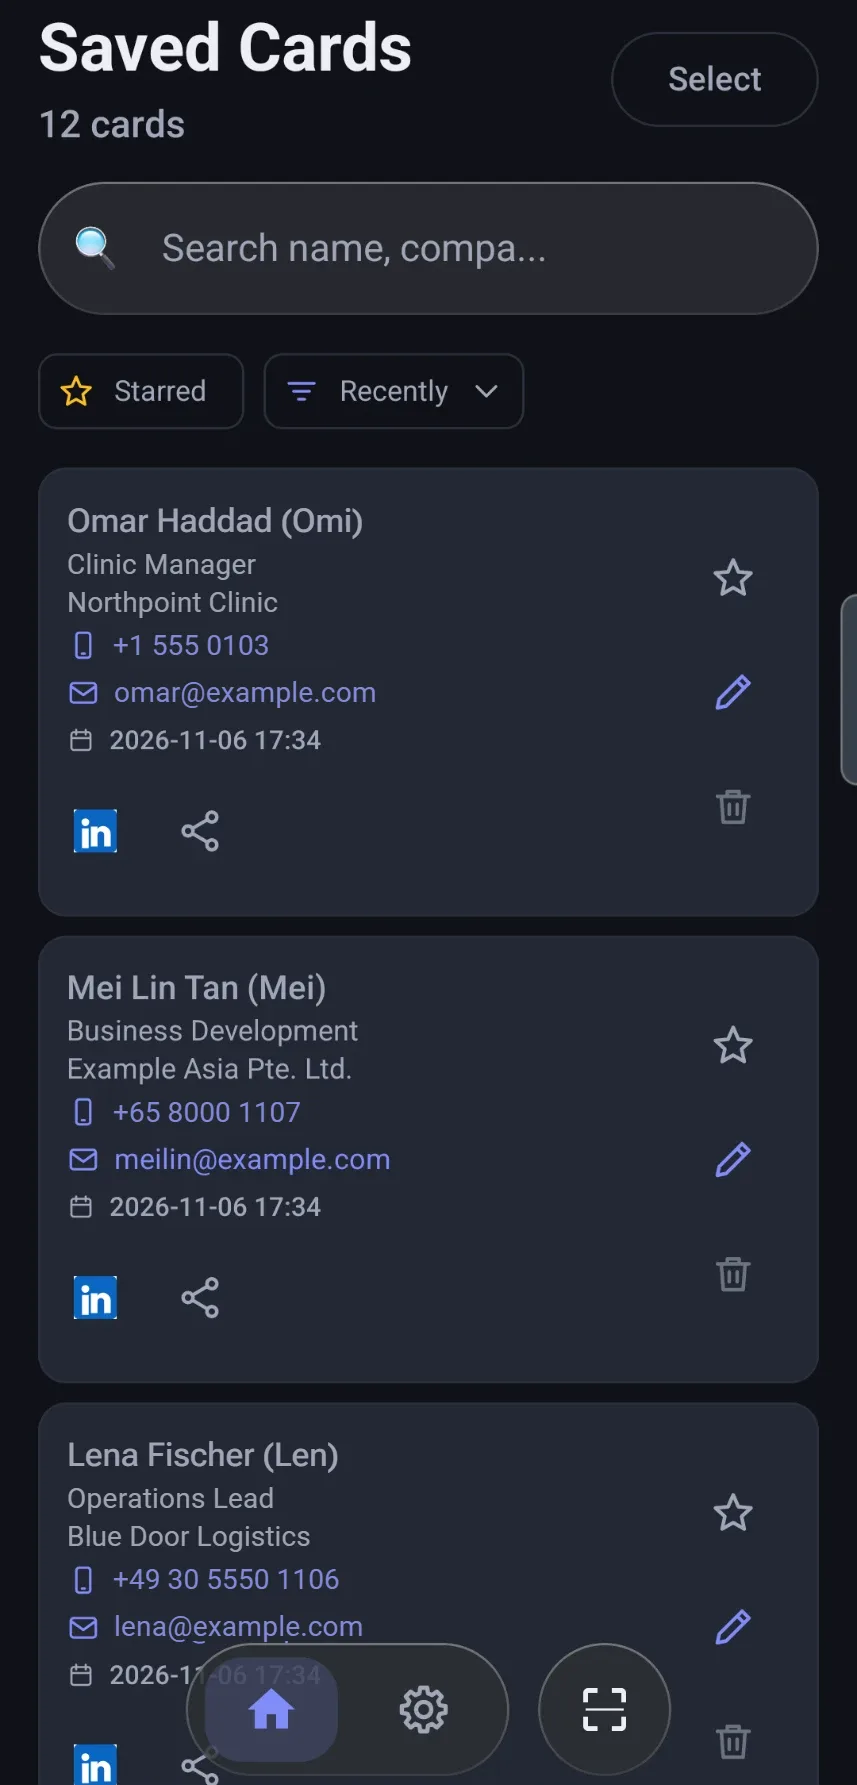
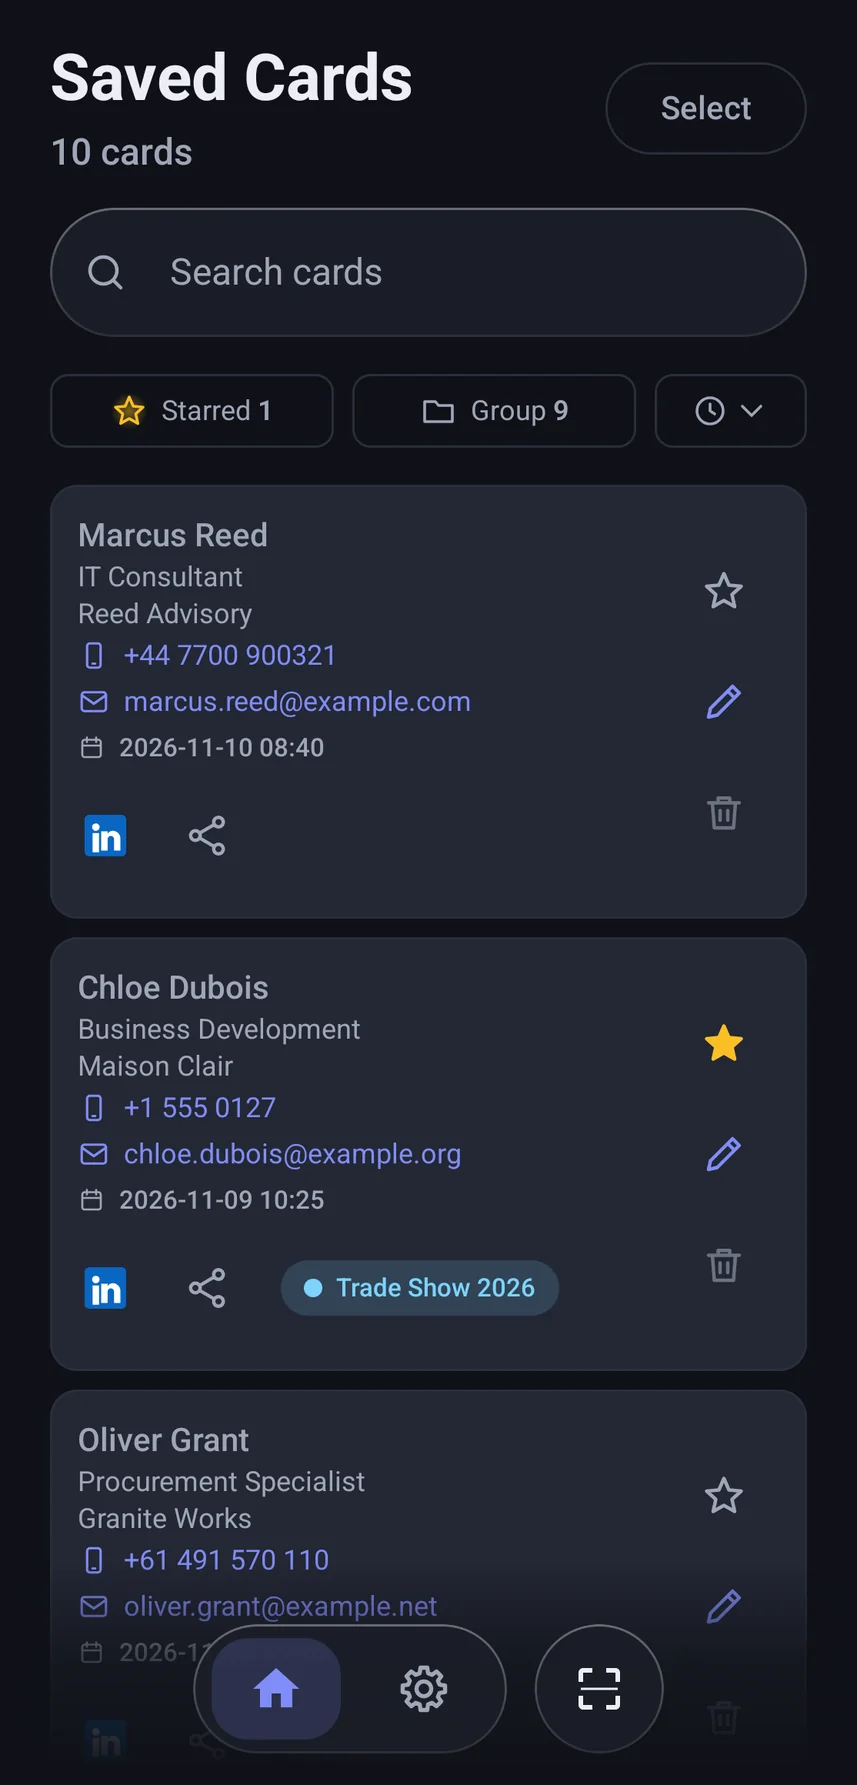
feat(website): show 1.3 screens with groups and polish Thai and English copy

diff --git a/th.js b/th.js
@@ -13,7 +13,7 @@ window.BIZCAPTO_TH = {
   'nav.faq': 'คำถามที่พบบ่อย',
   'lang.label': 'ภาษา',
 
-  'hero.eyebrow': 'แอปสแกนนามบัตรสำหรับ Android',
+  'hero.eyebrow': 'แอปจัดการนามบัตรแบบ<span class="hl">ออฟไลน์</span>',
   'hero.title': 'สแกนนามบัตร<br>ได้รายชื่อทันที<br><span>เก็บไว้ในมือถือคุณเท่านั้น</span>',
   'hero.lead': 'BizCapto เปลี่ยนนามบัตรกระดาษเป็นรายชื่อที่ค้นหา โทร และส่งอีเมลได้ทันที ใช้ได้แม้ไม่มีเน็ต ไม่ต้องสมัครบัญชี และไม่มีคลาวด์',
   'hero.secondary': 'ดูวิธีใช้',
@@ -34,18 +34,15 @@ window.BIZCAPTO_TH = {
   'demo.caption': 'ภาพจำลอง ใช้นามบัตรตัวอย่างที่สมมติขึ้น',
   'demo.pause': 'หยุด',
   'demo.play': 'เล่น',
-  'pill.offline': 'ไม่ต้องต่อเน็ต',
-  'pill.account': 'ไม่ต้องสมัครบัญชี',
-  'pill.excel': 'ส่งออก Excel',
 
   'screens.title': 'หน้าตาแอปจริง',
   'screens.lead': 'ภาพหน้าจอจริงจากแอป รายชื่อทั้งหมดเป็นข้อมูลสมมติ',
-  'screens.1.alt': 'หน้ารายการนามบัตร มีช่องค้นหา ตัวกรองติดดาว และการเรียงลำดับ',
+  'screens.1.alt': 'หน้ารายการนามบัตร มีช่องค้นหา ตัวกรองติดดาวและกลุ่ม และการเรียงลำดับ',
   'screens.1.title': 'นามบัตรทั้งหมดอยู่ในที่เดียว',
-  'screens.1.text': 'ค้นหา ติดดาว เรียงลำดับ แล้วโทรหรือส่งอีเมลได้ในแตะเดียว',
-  'screens.2.alt': 'หน้าตรวจข้อมูล มีช่องข้อมูลติดต่อ และข้อความที่สแกนได้อยู่ด้านล่าง',
+  'screens.1.text': 'ค้นหา ติดดาว จัดกลุ่ม เรียงลำดับ แล้วโทรหรือส่งอีเมลได้ทันที',
+  'screens.2.alt': 'หน้าตรวจข้อมูล (Check details) มีช่องข้อมูลติดต่อ และกลุ่มที่แนะนำให้เลือก',
   'screens.2.title': 'ตรวจก่อนบันทึก',
-  'screens.2.text': 'แก้ได้ทุกช่อง หรือแตะบรรทัดที่สแกนได้เพื่อใส่ลงช่อง',
+  'screens.2.text': 'แก้ได้ทุกช่อง แตะบรรทัดที่สแกนได้เพื่อใส่ลงช่อง และเลือกกลุ่มได้เลย',
   'screens.3.alt': 'หน้าตั้งค่า มีปุ่มส่งออกและนำเข้า และข้อความว่านามบัตรเก็บไว้ในมือถือเครื่องนี้เท่านั้น',
   'screens.3.title': 'อยู่ในมือถือคุณเท่านั้น',
   'screens.3.text': 'ส่งออกเป็น Excel เมื่ออยากเก็บสำรอง ไม่ต้องมีบัญชี ไม่มีคลาวด์',
@@ -60,7 +57,7 @@ window.BIZCAPTO_TH = {
 
   'feat.title': 'นามบัตรทั้งกองที่หยิบมาใช้ได้จริง',
   'feat.search.title': 'หาใครก็เจอในไม่กี่วินาที',
-  'feat.search.text': 'ค้นจากชื่อ ชื่อเล่น ตำแหน่ง บริษัท เบอร์โทร หรืออีเมล เรียงตามล่าสุด A-Z หรือวันที่เพิ่ม ลองพิมพ์ดูได้เลย',
+  'feat.search.text': 'ค้นจากชื่อ ชื่อเล่น ตำแหน่ง บริษัท เบอร์โทร หรืออีเมล เรียงได้ทั้งล่าสุด ตามตัวอักษร หรือเก่าไปใหม่ ลองพิมพ์ดูได้เลย',
   'feat.search.label': 'ค้นหานามบัตรตัวอย่าง',
   'feat.search.placeholder': 'ค้นหานามบัตร',
   'feat.search.none': 'ไม่พบนามบัตรตัวอย่างที่ตรงกัน',
@@ -69,17 +66,17 @@ window.BIZCAPTO_TH = {
   'feat.excel.alt': 'ตัวอย่างไฟล์ Excel ที่ส่งออก มีคอลัมน์ Name, Nickname, Job Title, Company, Phone และ Email',
   'feat.excel.all': 'ครบ 6 คอลัมน์ ทุกใบ',
   'feat.excel.hint': 'ปัดเพื่อดูทั้งแผ่น',
-  'feat.act.title': 'ติดต่อได้ในแตะเดียว',
+  'feat.act.title': 'โทรหรืออีเมลได้ทันที',
   'feat.act.text': 'โทร ส่งอีเมล หรือค้นหาชื่อใน LinkedIn ได้จากหน้านามบัตรเลย',
   'feat.share.title': 'แชร์เข้า LINE และแอปอื่น',
   'feat.share.text': 'ส่งนามบัตรเป็นข้อความผ่านเมนูแชร์ของมือถือ',
   'feat.dup.title': 'ไม่บันทึกซ้ำ',
   'feat.dup.text': 'แอปเตือนเมื่อเบอร์โทรหรืออีเมลนั้นมีอยู่แล้ว',
   'feat.star.title': 'ติดดาว จัดกลุ่ม และโหมดมืด',
-  'feat.star.text': 'ติดดาวคนสำคัญ และจัดกลุ่มนามบัตร เช่น ลูกค้า หรืองานแสดงสินค้า แล้วกรองดูได้ เลือกโหมดสว่าง มืด หรือตามระบบ',
+  'feat.star.text': 'ติดดาวคนสำคัญ แยกนามบัตรเป็นกลุ่ม เช่น ลูกค้า หรือซัพพลายเออร์ แล้วเลือกดูทีละกลุ่มได้ รองรับโหมดสว่าง มืด และตามระบบ',
 
-  'priv.title': 'นามบัตรคือข้อมูลส่วนตัวของคนอื่น เราจึงดูแลแบบนั้น',
-  'priv.lead': 'แอป Android ไม่มีสิทธิ์เข้าอินเทอร์เน็ต รายชื่อของคุณจึงไม่มีทางออกจากมือถือ เว้นแต่คุณจะส่งออกหรือแชร์เอง',
+  'priv.title': 'นามบัตรคือข้อมูลส่วนตัวของคนอื่น เราจึงดูแลอย่างระมัดระวัง',
+  'priv.lead': 'แอปไม่มีสิทธิ์ใช้อินเทอร์เน็ต ข้อมูลนามบัตรจึงอยู่ในมือถือคุณเท่านั้น จนกว่าคุณจะส่งออกหรือแชร์เอง',
   'priv.1': 'ไม่ต้องสมัครบัญชีหรือล็อกอิน',
   'priv.2': 'ไม่มีการซิงก์ขึ้นคลาวด์ และไม่มี analytics',
   'priv.3': 'ขอสิทธิ์ใช้กล้องอย่างเดียว',
@@ -92,7 +89,7 @@ window.BIZCAPTO_TH = {
   'price.free.amount': 'เริ่มต้นฟรี',
   'price.free.text': 'สแกนนามบัตรใบแรก ๆ ได้ฟรี ใช้ได้ทุกฟีเจอร์',
   'price.paid.title': 'ปลดล็อกถาวร',
-  'price.paid.amount': 'บอกราคาวันเปิดตัว',
+  'price.paid.amount': 'ประกาศราคาเร็ว ๆ นี้',
   'price.paid.text': 'ซื้อครั้งเดียวในแอป บันทึกนามบัตรได้ไม่จำกัด ไม่ต้องต่ออายุ',
   'price.note': 'นามบัตรที่บันทึกแล้วยังดูและส่งออกได้เสมอ',
 

diff --git a/index.html b/index.html
@@ -96,7 +96,7 @@
       <div class="aurora" aria-hidden="true"><i></i><i></i><i></i></div>
       <div class="wrap hero-grid">
         <div class="hero-copy">
-          <p class="eyebrow" data-i18n="hero.eyebrow">Business card scanner for Android</p>
+          <p class="eyebrow" data-i18n="hero.eyebrow"><span class="hl">Offline</span> business card scanner</p>
           <h1 data-i18n="hero.title">Scan the card.<br>Keep the contact.<br><span>Stored on your phone.</span></h1>
           <p class="lead" data-i18n="hero.lead">BizCapto turns a paper business card into a contact you can search, call and email. It works offline, with no account and no cloud.</p>
           <div class="actions">
@@ -109,11 +109,6 @@
         </div>
 
         <figure class="demo">
-          <div class="pills" aria-hidden="true">
-            <span class="pill pill-a" data-depth="26" data-i18n="pill.offline">Works offline</span>
-            <span class="pill pill-b" data-depth="-20" data-i18n="pill.account">No account</span>
-            <span class="pill pill-c" data-depth="34" data-i18n="pill.excel">Excel export</span>
-          </div>
           <div class="bob">
           <div class="phone" id="phone" data-step="0" role="img" aria-label="Illustration: a phone scans a sample business card and fills in the contact fields" data-i18n-aria="demo.alt">
             <div class="screen" aria-hidden="true">
@@ -193,17 +188,17 @@
         <p class="lead" data-i18n="screens.lead">Real screens from the app. Every contact shown is a made-up sample.</p>
         <div class="shots">
           <figure class="shot">
-            <img src="img/screen-cards.webp" width="857" height="1785" loading="lazy" decoding="async" alt="The saved cards list with search, a Starred filter and sorting" data-i18n-alt="screens.1.alt">
+            <img src="img/screen-cards.webp" width="857" height="1785" loading="lazy" decoding="async" alt="The saved cards list with search, Starred and Group filters, and sorting" data-i18n-alt="screens.1.alt">
             <figcaption>
               <h3 data-i18n="screens.1.title">Every card in one place</h3>
-              <p data-i18n="screens.1.text">Search, star and sort, then call or email in one tap.</p>
+              <p data-i18n="screens.1.text">Search, star, group and sort, then call or email right away.</p>
             </figcaption>
           </figure>
           <figure class="shot">
-            <img src="img/screen-review.webp" width="857" height="1785" loading="lazy" decoding="async" alt="The review screen with the contact fields and the scanned text below" data-i18n-alt="screens.2.alt">
+            <img src="img/screen-review.webp" width="857" height="1785" loading="lazy" decoding="async" alt="The Check details screen with the contact fields and group suggestions" data-i18n-alt="screens.2.alt">
             <figcaption>
               <h3 data-i18n="screens.2.title">Check before you save</h3>
-              <p data-i18n="screens.2.text">Fix any field, or tap a line of scanned text to fill it in.</p>
+              <p data-i18n="screens.2.text">Fix any field, tap a line of scanned text to fill it in, and pick a group.</p>
             </figcaption>
           </figure>
           <figure class="shot">
@@ -223,7 +218,7 @@
         <div class="bento">
           <article class="tile tile-search">
             <h3 data-i18n="feat.search.title">Find anyone in seconds</h3>
-            <p data-i18n="feat.search.text">Search by name, nickname, job title, company, phone number or email. Sort by recent, A to Z or date added. Try it:</p>
+            <p data-i18n="feat.search.text">Search by name, nickname, job title, company, phone number or email. Sort by most recent, A to Z or oldest first. Try it:</p>
             <div class="search-demo">
               <label class="sr-only" for="q" data-i18n="feat.search.label">Search sample cards</label>
               <input id="q" type="search" autocomplete="off" placeholder="Search cards" data-i18n-placeholder="feat.search.placeholder">
@@ -272,7 +267,7 @@
 
           <article class="tile">
             <svg class="ico ico-call" viewBox="0 0 24 24" aria-hidden="true"><path d="M6 3h4l2 6-3 2a13 13 0 0 0 6 6l2-3 6 2v4a2 2 0 0 1-2 2A18 18 0 0 1 4 5a2 2 0 0 1 2-2Z"/></svg>
-            <h3 data-i18n="feat.act.title">Reach out in one tap</h3>
+            <h3 data-i18n="feat.act.title">Call or email right away</h3>
             <p data-i18n="feat.act.text">Call, email or look someone up on LinkedIn straight from their card.</p>
           </article>
           <article class="tile">
@@ -288,7 +283,7 @@
           <article class="tile">
             <svg class="ico ico-star" viewBox="0 0 24 24" aria-hidden="true"><path d="m12 2 3.1 6.3 6.9 1-5 4.9 1.2 6.8-6.2-3.2-6.2 3.2 1.2-6.8-5-4.9 6.9-1Z"/></svg>
             <h3 data-i18n="feat.star.title">Stars, groups and dark mode</h3>
-            <p data-i18n="feat.star.text">Star the people who matter and sort cards into groups like clients or a trade show, then filter. Light, dark or follow your system.</p>
+            <p data-i18n="feat.star.text">Star the people who matter and sort cards into groups, like clients or suppliers. View one group at a time. Light, dark or follow your system.</p>
           </article>
         </div>
       </div>
@@ -306,7 +301,7 @@
           <li data-i18n="priv.1">No account or sign-in</li>
           <li data-i18n="priv.2">No cloud sync and no analytics</li>
           <li data-i18n="priv.3">Camera is the only permission it asks for</li>
-          <li data-i18n="priv.4">Photos taken in the app are deleted when you save or leave the review screen</li>
+          <li data-i18n="priv.4">Photos taken in the app are deleted when you save or leave the Check details screen</li>
           <li data-i18n="priv.5">Left out of Android's automatic cloud backup</li>
         </ul>
       </div>
@@ -323,7 +318,7 @@
           </article>
           <article class="plan plan-main">
             <h3 data-i18n="price.paid.title">Unlock for good</h3>
-            <p class="amount" data-i18n="price.paid.amount">Revealed at launch</p>
+            <p class="amount" data-i18n="price.paid.amount">Price coming soon</p>
             <p data-i18n="price.paid.text">One in-app purchase for unlimited cards, with nothing to renew.</p>
           </article>
         </div>

diff --git a/styles.css b/styles.css
@@ -67,6 +67,7 @@ html:not(.thai-ok) .lang { display: none; }
 .hero { position: relative; overflow: hidden; }
 .hero-grid { position: relative; display: grid; grid-template-columns: 1.15fr .85fr; align-items: center; gap: 3rem; padding-block: clamp(2.5rem, 6vw, 5rem); }
 .eyebrow { color: var(--indigo); font-weight: 600; }
+.eyebrow .hl { color: var(--green); }
 h1 { font-size: clamp(2.3rem, 4.7vw, 3.55rem); line-height: 1.16; letter-spacing: -.02em; margin: .8rem 0 1.3rem; }
 :lang(th) h1 { line-height: 1.38; letter-spacing: 0; font-size: clamp(2.2rem, 4.6vw, 3.6rem); }
 h1 span { color: var(--indigo); }
